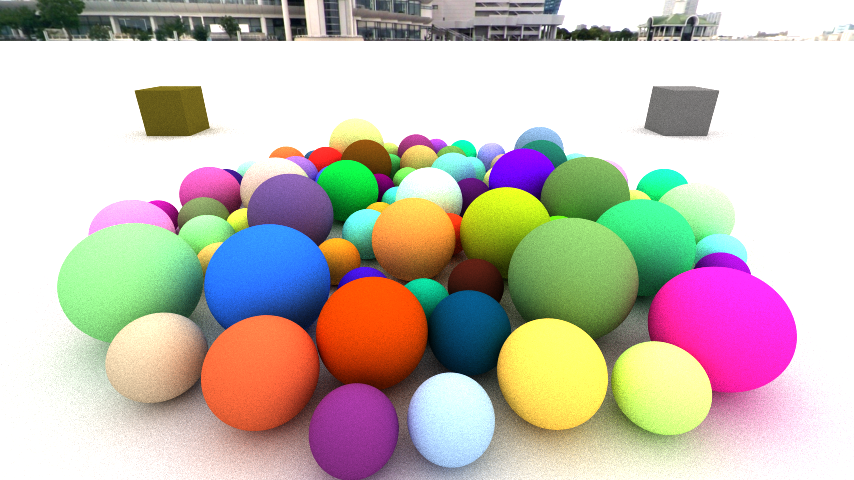
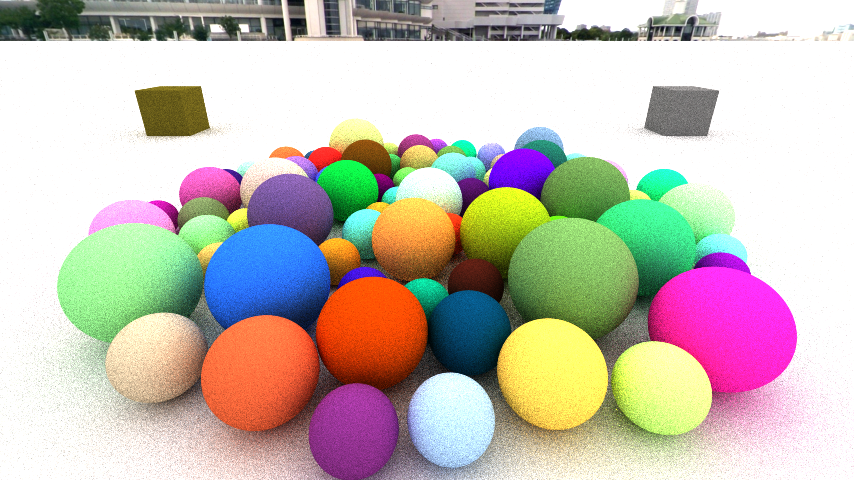
Did some renaming

diff --git a/ForceRenderer/Terminals/RenderMonitor.cs b/ForceRenderer/Terminals/RenderMonitor.cs
@@ -1,0 +1,60 @@
+using CodeHelpers.Vectors;
+using ForceRenderer.Renderers;
+
+namespace ForceRenderer.Terminals
+{
+	public class RenderMonitor : Terminal.Section
+	{
+		public RenderMonitor(Terminal terminal) : base(terminal) { }
+
+		public RenderEngine Engine { get; set; }
+
+		int monitorHeight; //Will be zero if the render engine is not ready, only includes the height of the tiles
+
+		const int StatusHeight = 3; //Lines of text used to display the current status
+		public override int Height => monitorHeight + StatusHeight;
+
+		public override void Update()
+		{
+			int lastHeight = monitorHeight;
+
+			monitorHeight = Engine == null || Engine.CurrentState != RenderEngine.State.rendering ? 0 : Engine.TotalTileSize.y;
+			if (lastHeight != monitorHeight) builders.Clear(0); //Clear first row leftover message
+
+			//If engine not ready for displaying
+			if (monitorHeight == 0)
+			{
+				builders.Clear(0);
+
+				const string Message = "Awaiting Render Engine";
+				builders.Insert(Int2.zero, Message);
+
+				int periodCount = (int)(terminal.AliveTime / 1000f % 4d);
+				for (int i = 0; i < periodCount; i++) builders[new Int2(Message.Length + i, 0)] = '.';
+
+				return;
+			}
+
+			foreach (Int2 position in Engine.TotalTileSize.Loop())
+			{
+				TileWorker worker = Engine.GetWorker(position, out bool completed);
+				char character;
+
+				if (worker != null)
+				{
+					if (!completed)
+					{
+						double progress = (double)worker.CompletedSample / worker.sampleCount;
+						character = (char)Scalars.Lerp('\u258F', '\u2588', (float)progress);
+					}
+					else character = '\u2593';
+				}
+				else character = '_';
+
+				builders[position] = character;
+			}
+		}
+
+		static char GetProgressCharacter(long current, long total) => (char)Scalars.Lerp('\u258F', '\u2588', (float)((double)current / total));
+	}
+}

diff --git a/ForceRenderer/Program.cs b/ForceRenderer/Program.cs
@@ -20,7 +20,7 @@ namespace ForceRenderer
 			Terminal terminal = new Terminal();
 
 			var commandsController = new CommandsController(terminal);
-			var renderDisplay = new RenderDisplay(terminal);
+			var renderDisplay = new RenderMonitor(terminal);
 
 			terminal.AddSection(commandsController);
 			terminal.AddSection(renderDisplay);
@@ -72,7 +72,7 @@ namespace ForceRenderer
 				using RenderEngine engine = new RenderEngine
 											{
 												RenderBuffer = buffer, Scene = scene,
-												PixelSample = 512, TileSize = 64
+												PixelSample = 128, TileSize = 64
 											};
 
 				renderDisplay.Engine = engine;

diff --git a/ForceRenderer/Renderers/RenderEngine.cs b/ForceRenderer/Renderers/RenderEngine.cs
@@ -3,6 +3,7 @@ using System.Collections.Generic;
 using System.Linq;
 using System.Threading;
 using CodeHelpers;
+using CodeHelpers.Collections;
 using CodeHelpers.Vectors;
 using ForceRenderer.IO;
 using ForceRenderer.Objects;
@@ -91,7 +92,7 @@ namespace ForceRenderer.Renderers
 			tilePositions = TotalTileSize.Loop().Select(position => position * profile.tileSize).ToArray();
 
 			//Shuffle it just for fun, we might reposition them differently (spiral or checkerboard .etc) later.
-			//tilePositions.Shuffle();
+			tilePositions.Shuffle();
 
 			tileStatuses = tilePositions.ToDictionary
 			(

diff --git a/ForceRenderer/Terminals/Terminal.cs b/ForceRenderer/Terminals/Terminal.cs
@@ -1,12 +1,12 @@
 using System;
 using System.Collections.Generic;
 using System.Diagnostics;
-using System.Linq;
 using System.Text;
 using System.Threading;
 using CodeHelpers;
 using CodeHelpers.Collections;
 using CodeHelpers.Vectors;
+using ForceRenderer.Renderers;
 
 namespace ForceRenderer.Terminals
 {
@@ -112,6 +112,7 @@ namespace ForceRenderer.Terminals
 
 			readonly Section section;
 
+			//TODO: Convert to char arrays!
 			readonly List<StringBuilder> builders = new List<StringBuilder>();
 			readonly List<bool> dirties = new List<bool>();
 
